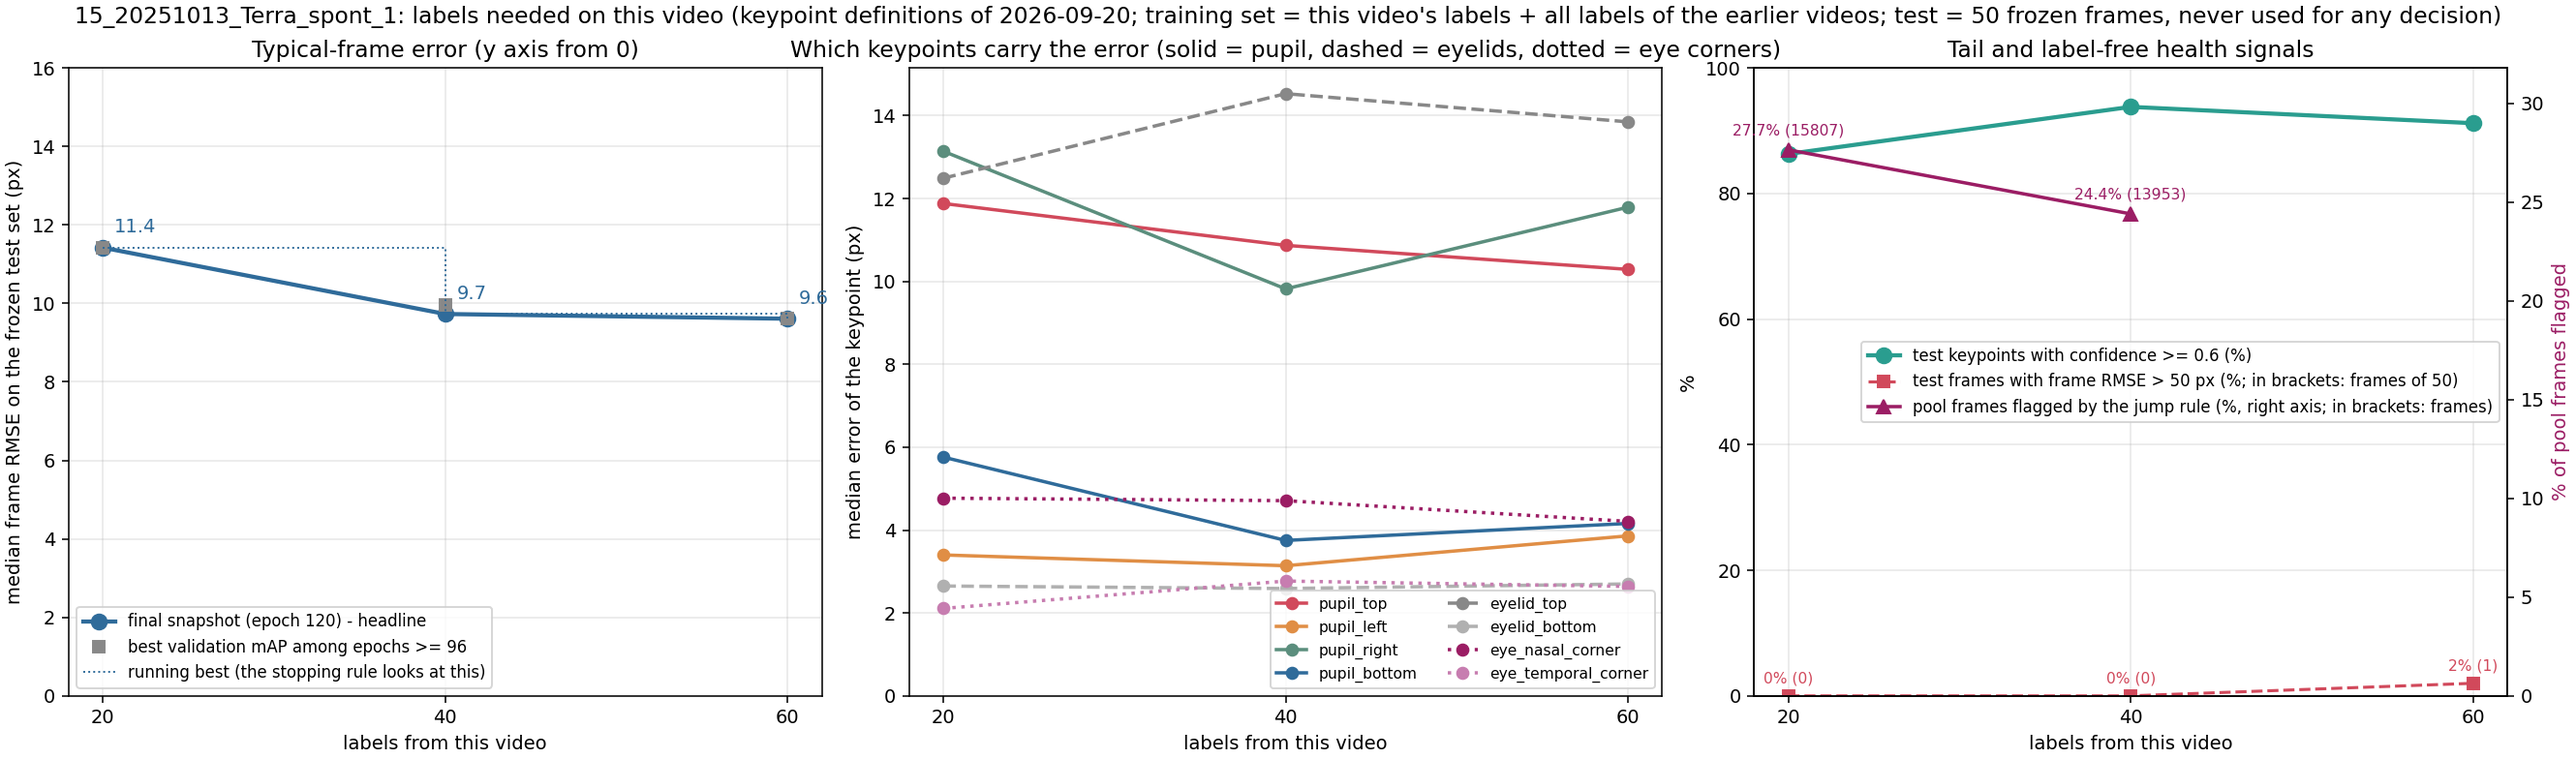
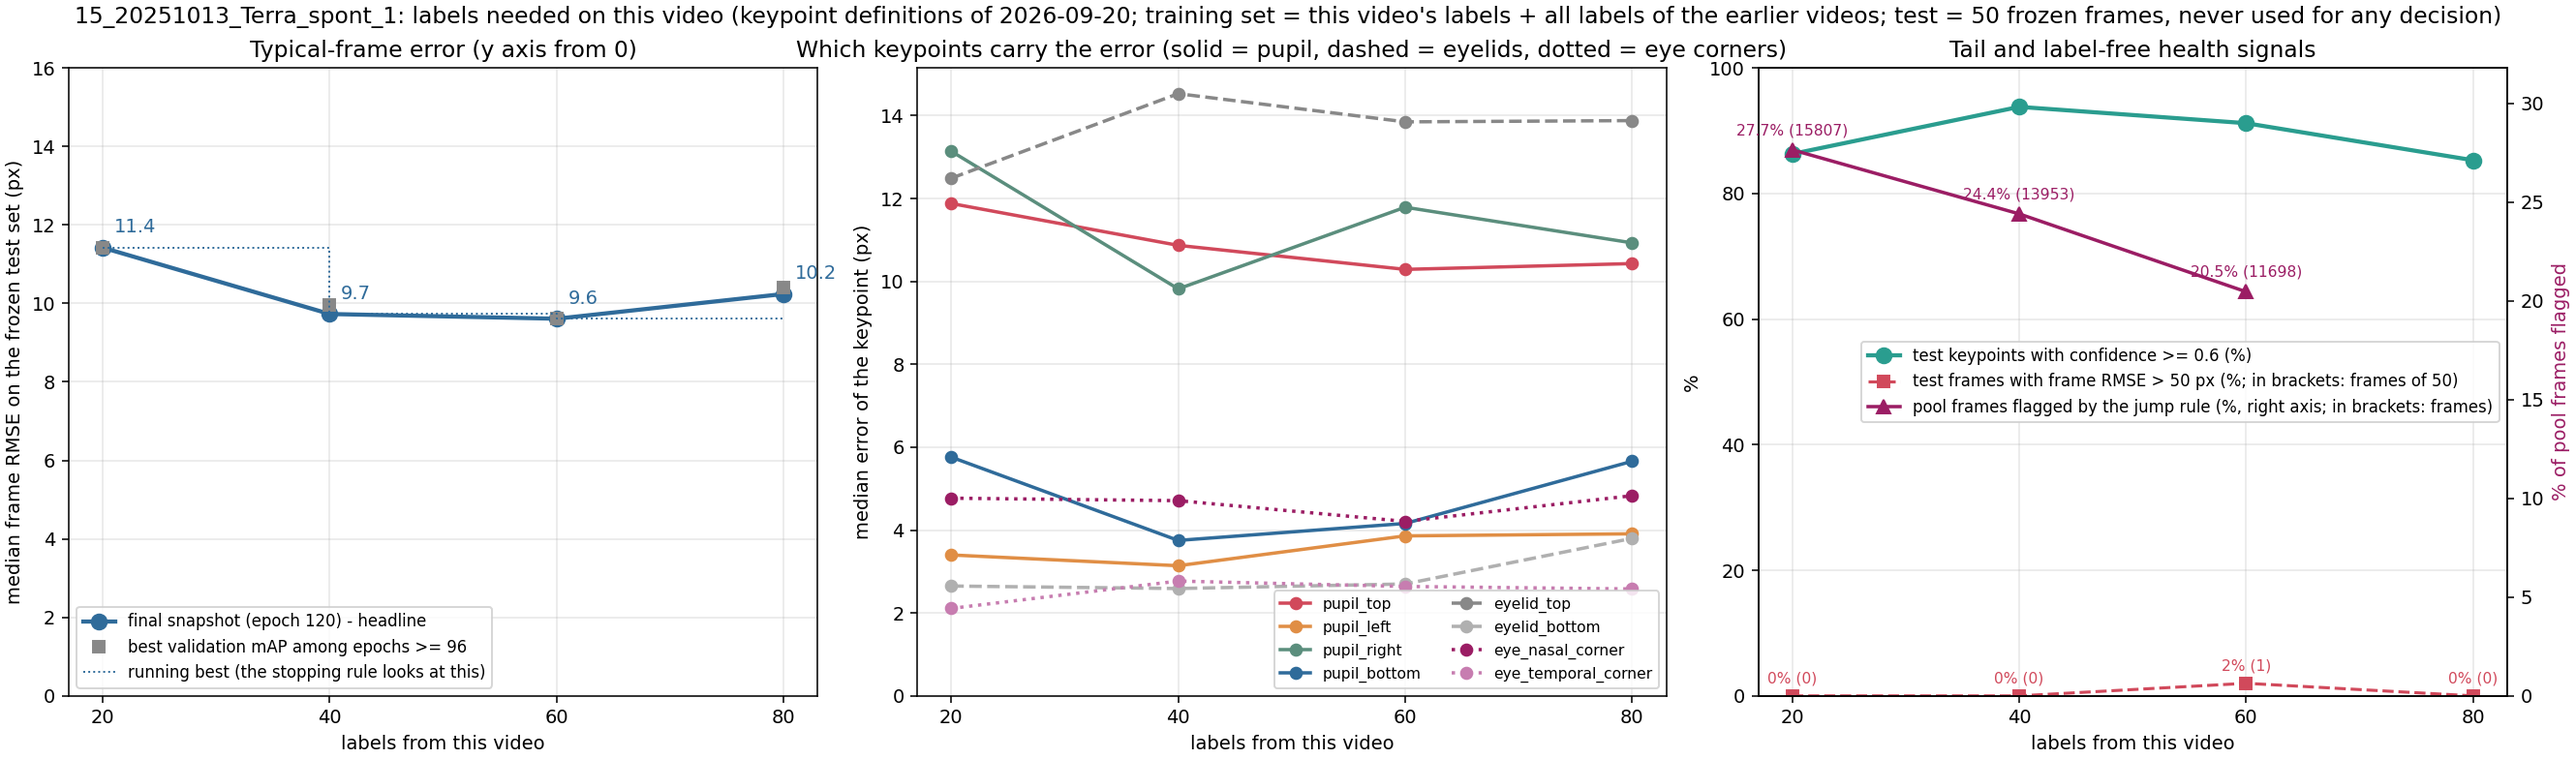
Video 15 step 4: 80 labels = 10.24 px (worse than 9.73, second flat step): plateau rule fired at 80, plateau point 40 labels, awaiting user decision

diff --git a/README.md b/README.md
@@ -28,7 +28,7 @@ per-frame predictions stay local; git carries code, documentation and audited ag
 | Finished | **video 12** (Terra, 2025-10-16, second video of mouse C): test50 / val20 / batch01 pre-labeled with the video-11 40-label model (1212) and corrected by the labeler (test50: 110 of 400 points moved), test set frozen; 0 labels (model 1212) = 5.13 px, 20 labels = 5.77 px, 40 labels = 5.84 px (0% of frames > 50 px at every step): no step improves the 0-label number, the plateau rule fired at 40, finished with the plateau at **0 labels, 5.13 px** (user decision 2026-10-04 21:29); no labels carried |
 | Finished | **video 13** (Terra, 2025-10-15, third video of mouse C): test50 / val20 / batch01 pre-labeled with the video-11 40-label model (1212) and corrected by the labeler (test50: 287 of 400 points moved), test set frozen; 0 labels (model 1212) = 69.13 px (56% of frames > 50 px: the model that fitted video 12 does not fit this day), 20 labels = 9.43 px, 40 labels = 9.44 px, 60 labels = 9.67 px (0% of frames > 50 px from 20 labels on): no step improves on 20 labels, the plateau rule fired at 60; **plateau at 20 labels, 9.43 px** (user decision 2026-10-06), tag `v0.9.15-video13-plateau`; batch01 (20 labels) carried, 600 labels go into video 14. Fewer-labels: 5 labels 10.46 / 16.03 px, 10 labels 11.24 / 10.29 px (first-batch size only, no jump selection afterwards; both above the 20-label 9.43 px). |
 | Finished | **video 14** (Terra, 2025-10-14, fourth video of mouse C): test50 / val20 / batch01 pre-labeled with the video-13 20-label model (1411) and corrected by the labeler (test50: 149 of 400 points moved), test set frozen; 0 labels (model 1411) = 13.33 px (16% of frames > 50 px), 20 labels = 10.83 px, 40 labels = 12.41 px, 60 labels = 10.30 px, 80 labels = 10.45 px, 100 labels = 10.24 px (2% of frames > 50 px from 20 labels on); 80 and 100 stay within 3% of 10.30, the plateau rule fired at 100; **plateau at 60 labels, 10.30 px** (user decision 2026-10-07), tag `v0.9.16-video14-plateau`; batches 1-3 (60 labels) carried, 660 labels go into video 15; batch 6 was selected but not labeled. Fewer-labels: 5 labels 10.93 / 10.22 px, 10 labels 9.82 / 10.06 px (first-batch size only, no jump selection afterwards; medians within 10% of the 20-label 10.83 px, subset 5b with 14% of frames > 50 px). |
-| In progress | **video 15** (Terra, 2025-10-13): test50 / val20 / batch01 extracted on 2026-10-06 (model-free, same rule as every video); test50 was pre-labeled with the video-14 20-label model (1511) at the labeler's request before video 14's plateau was known, corrected (126 of 400 points moved) and frozen on 2026-10-06; val20 / batch01 pre-labeled with the video-14 plateau model (1513, 60 labels) on 2026-10-07 and being corrected; 0 labels (model 1513) = 10.57 px (p90 28.8, 0% of frames > 50 px, 64% of keypoints with confidence >= 0.6); 20 labels (shuffle 1611) = 11.42 px (p90 26.2, 0% > 50 px, 86% confidence; no gain over 10.57, one flat step by the rule); batch 2 selected (15807 of 57158 pool frames flagged, 27.7%) and labeled; 40 labels (shuffle 1612) = 9.73 px (p90 19.1, 0% > 50 px, 94% confidence; 7.9% better than 10.57, an improving step, the flat-step count restarts); batch 3 selected from the 40-label model (13953 of 57158 pool frames flagged, 24.4%) and labeled; 60 labels (shuffle 1613) = 9.61 px (p90 26.7, 2% > 50 px, 91% confidence; 1.2% better than 9.73, below 3%: one flat step by the rule); batch 4 selected from the 60-label model (11698 of 57158 pool frames flagged, 20.5%) and labeled (2026-10-08 14:10). Training set of every step = 660 carried labels of videos 0-14 + this video's labels; shuffles 1611, 1612, ... |
+| In progress | **video 15** (Terra, 2025-10-13): test50 / val20 / batch01 extracted on 2026-10-06 (model-free, same rule as every video); test50 was pre-labeled with the video-14 20-label model (1511) at the labeler's request before video 14's plateau was known, corrected (126 of 400 points moved) and frozen on 2026-10-06; val20 / batch01 pre-labeled with the video-14 plateau model (1513, 60 labels) on 2026-10-07 and being corrected; 0 labels (model 1513) = 10.57 px (p90 28.8, 0% of frames > 50 px, 64% of keypoints with confidence >= 0.6); 20 labels (shuffle 1611) = 11.42 px (p90 26.2, 0% > 50 px, 86% confidence; no gain over 10.57, one flat step by the rule); batch 2 selected (15807 of 57158 pool frames flagged, 27.7%) and labeled; 40 labels (shuffle 1612) = 9.73 px (p90 19.1, 0% > 50 px, 94% confidence; 7.9% better than 10.57, an improving step, the flat-step count restarts); batch 3 selected from the 40-label model (13953 of 57158 pool frames flagged, 24.4%) and labeled; 60 labels (shuffle 1613) = 9.61 px (p90 26.7, 2% > 50 px, 91% confidence; 1.2% better than 9.73, below 3%: one flat step by the rule); batch 4 selected from the 60-label model (11698 of 57158 pool frames flagged, 20.5%) and labeled; 80 labels (shuffle 1614) = 10.24 px (p90 25.4, 0% > 50 px, 85% confidence; worse than 9.73: second flat step in a row, the plateau rule fired at 80); plateau point 40 labels (9.73 px), awaiting the user's decision (2026-10-08 16:30). Training set of every step = 660 carried labels of videos 0-14 + this video's labels; shuffles 1611, 1612, ... |
 | Analysis (2026-10-04) | blink and pupil area on all 12 finished videos (`v2_new_pupil_top_video_scaling/results/blink_and_area/`): four-point area median error 6.6% (three-point 8.3%); closed eye best detected by the mean confidence of the four pupil points (27 of 28 closed frames, 4.1% of open frames flagged; the earlier rule flags 55.7%); area traces still contain tracking jumps not covered by the closure rule. Error and confidence per keypoint (`.../results/keypoint_confidence_error/`): pupil top is the least accurate point (10.9 px median) |
 | Next | Terra units 16-18, one recording day each, newest first |
 
@@ -53,7 +53,7 @@ Labels needed per video (plateau = two consecutive 20-label steps that improve t
 | 12 | Terra (mouse C), 2025-10-16 | 580 | 5.13 / 5.77 / 5.84 px (v2) | 0 labels, 5.1 px (rule fired at 40) |
 | 13 | Terra (mouse C), 2025-10-15 | 580 | 69.13 / 9.43 / 9.44 / 9.67 px (v2) | 20 labels, 9.4 px (rule fired at 60) |
 | 14 | Terra (mouse C), 2025-10-14 | 600 | 13.33 / 10.83 / 12.41 / 10.30 / 10.45 / 10.24 px (v2) | 60 labels, 10.3 px (rule fired at 100) |
-| 15 | Terra (mouse C), 2025-10-13 | 660 | 10.57 / 11.42 / 9.73 / 9.61 px (v2, in progress) | – |
+| 15 | Terra (mouse C), 2025-10-13 | 660 | 10.57 / 11.42 / 9.73 / 9.61 / 10.24 px (v2) | rule fired at 80: plateau point 40 labels, 9.7 px (awaiting decision) |
 
 What the numbers say:
 

diff --git a/v2_new_pupil_top_video_scaling/results/README.md b/v2_new_pupil_top_video_scaling/results/README.md
@@ -27,7 +27,7 @@ snapshot with the best validation mAP after the first learning-rate drop (epochs
 | 12 `12_20251016_Terra_spont_2` | mouse C (Terra), 19.9 min, 2025-10-16 | 580 (as for video 11 + 40 of video 11) | convention v2: 5.13 (0 labels; biased low by the pre-labels; see the video's README) / 5.77 / 5.84 | **0 labels** (rule fired at 40; the video-11 model already fits) | 5.13 px |
 | 13 `13_20251015_Terra_spont_1` | mouse C (Terra), 19.9 min, 2025-10-15 | 580 (video 12 carries none) | convention v2: 69.13 / 9.43 / 9.44 / 9.67 | **20 labels** (rule fired at 60) | 9.43 px |
 | 14 `14_20251014_Terra_spont_1` | mouse C (Terra), 19.9 min, 2025-10-14 | 600 (580 + 20 of video 13) | convention v2: 13.33 / 10.83 / 12.41 / 10.30 / 10.45 / 10.24 | **60 labels** (rule fired at 100) | 10.30 px |
-| 15 `15_20251013_Terra_spont_1` | mouse C (Terra), 19.9 min, 2025-10-13 | 660 (600 + 60 of video 14) | convention v2: 10.57 / 11.42 / 9.73 / 9.61 | in progress (one flat step at 60; batch 4 being labeled) | – |
+| 15 `15_20251013_Terra_spont_1` | mouse C (Terra), 19.9 min, 2025-10-13 | 660 (600 + 60 of video 14) | convention v2: 10.57 / 11.42 / 9.73 / 9.61 / 10.24 | rule fired at 80: plateau point 40 labels, awaiting user decision | – |
 
 `labels_to_plateau.png` / `labels_to_plateau.csv` (2026-09-30): the plateau point of every video in the sequence as one figure - labels needed (left) and the error at the plateau vs the 0-label error (right); `scripts/plot_labels_to_plateau.py`. The csv is the table above in machine-readable form and is updated when a video finishes.
 

diff --git a/v2_new_pupil_top_video_scaling/15_20251013_Terra_spont_1/results/README.md b/v2_new_pupil_top_video_scaling/15_20251013_Terra_spont_1/results/README.md
@@ -22,6 +22,7 @@ videos 10 and 11 batches 1-2: 40 each; video 13 batch 1: 20; video 14 batches 1-
 | 20 (shuffle 1611) | 11.42 px | 26.2 | 0% | 86% | 15807 of 57158 (27.7%) |
 | 40 (shuffle 1612) | 9.73 px | 19.1 | 0% | 94% | 13953 of 57158 (24.4%) |
 | 60 (shuffle 1613) | 9.61 px | 26.7 | 2% | 91% | 11698 of 57158 (20.5%) |
+| 80 (shuffle 1614) | 10.24 px | 25.4 | 0% | 85% | pending (batch 5 selected, not labeled) |
 
 The other video-14 models give 10.4-10.8 px on this test set (40 labels 10.40, 80 labels 10.77), the video-12 models
 11.4-16.4 px, the video-13 plateau model 26.5 px (`../results/cross_video_matrix.csv`).
@@ -37,3 +38,7 @@ flat-step count restarts at zero (2026-10-08 01:14); p90 from 26.2 to 19.1 px, 9
 Step 3 (60 labels): 9.61 px, 1.2% better than the running best 9.73 px (step 2), below the 3% threshold: one flat step by the
 rule (2026-10-08 12:10); p90 worse (19.1 to 26.7 px), one test frame above 50 px. Batch 4 is selected from the 60-label model and
 opened for labeling; the rule fires if 80 labels also fail to improve by 3% on 9.73 px.
+
+Step 4 (80 labels): 10.24 px, worse than the running best 9.73 px (step 2): second flat step in a row, so the plateau rule
+fired at 80 labels (2026-10-08 16:28). Plateau point = the last improving step, 40 labels (9.73 px). The batch-5 window is held;
+awaiting the user's decision.
